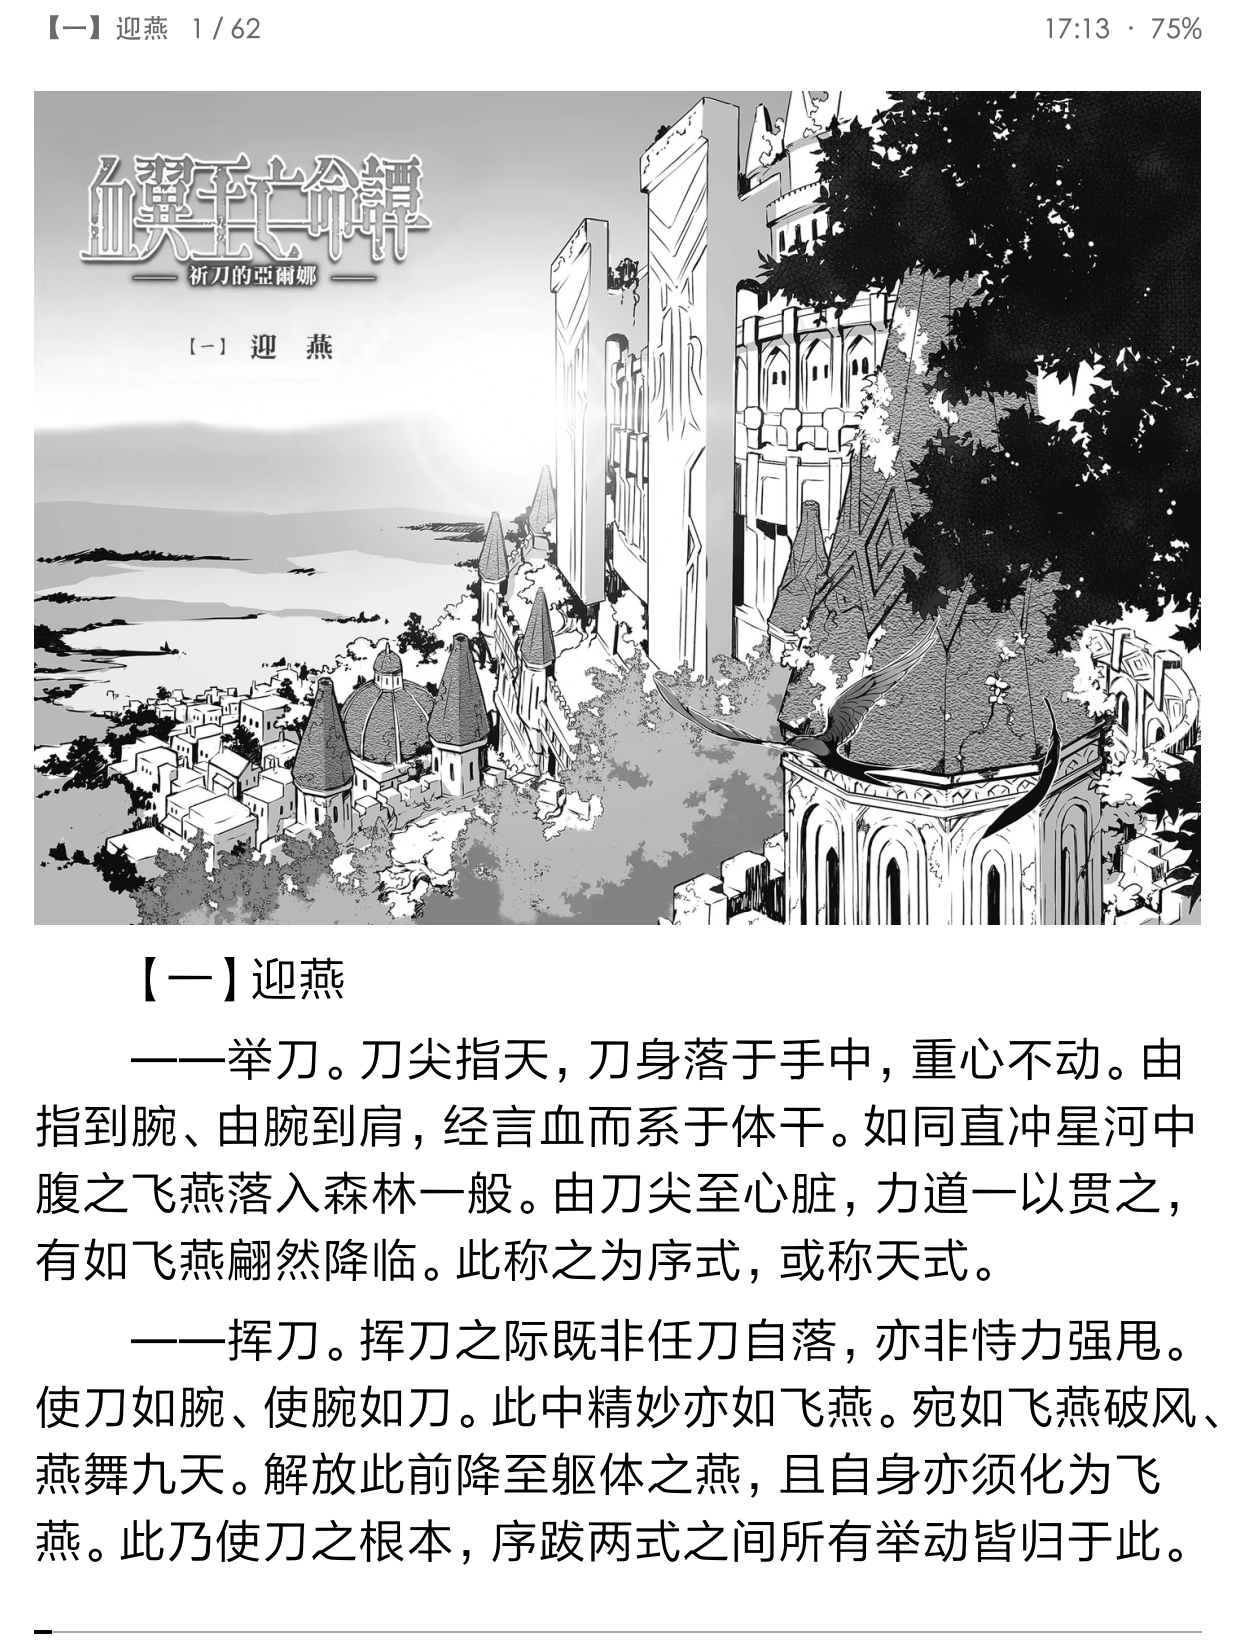
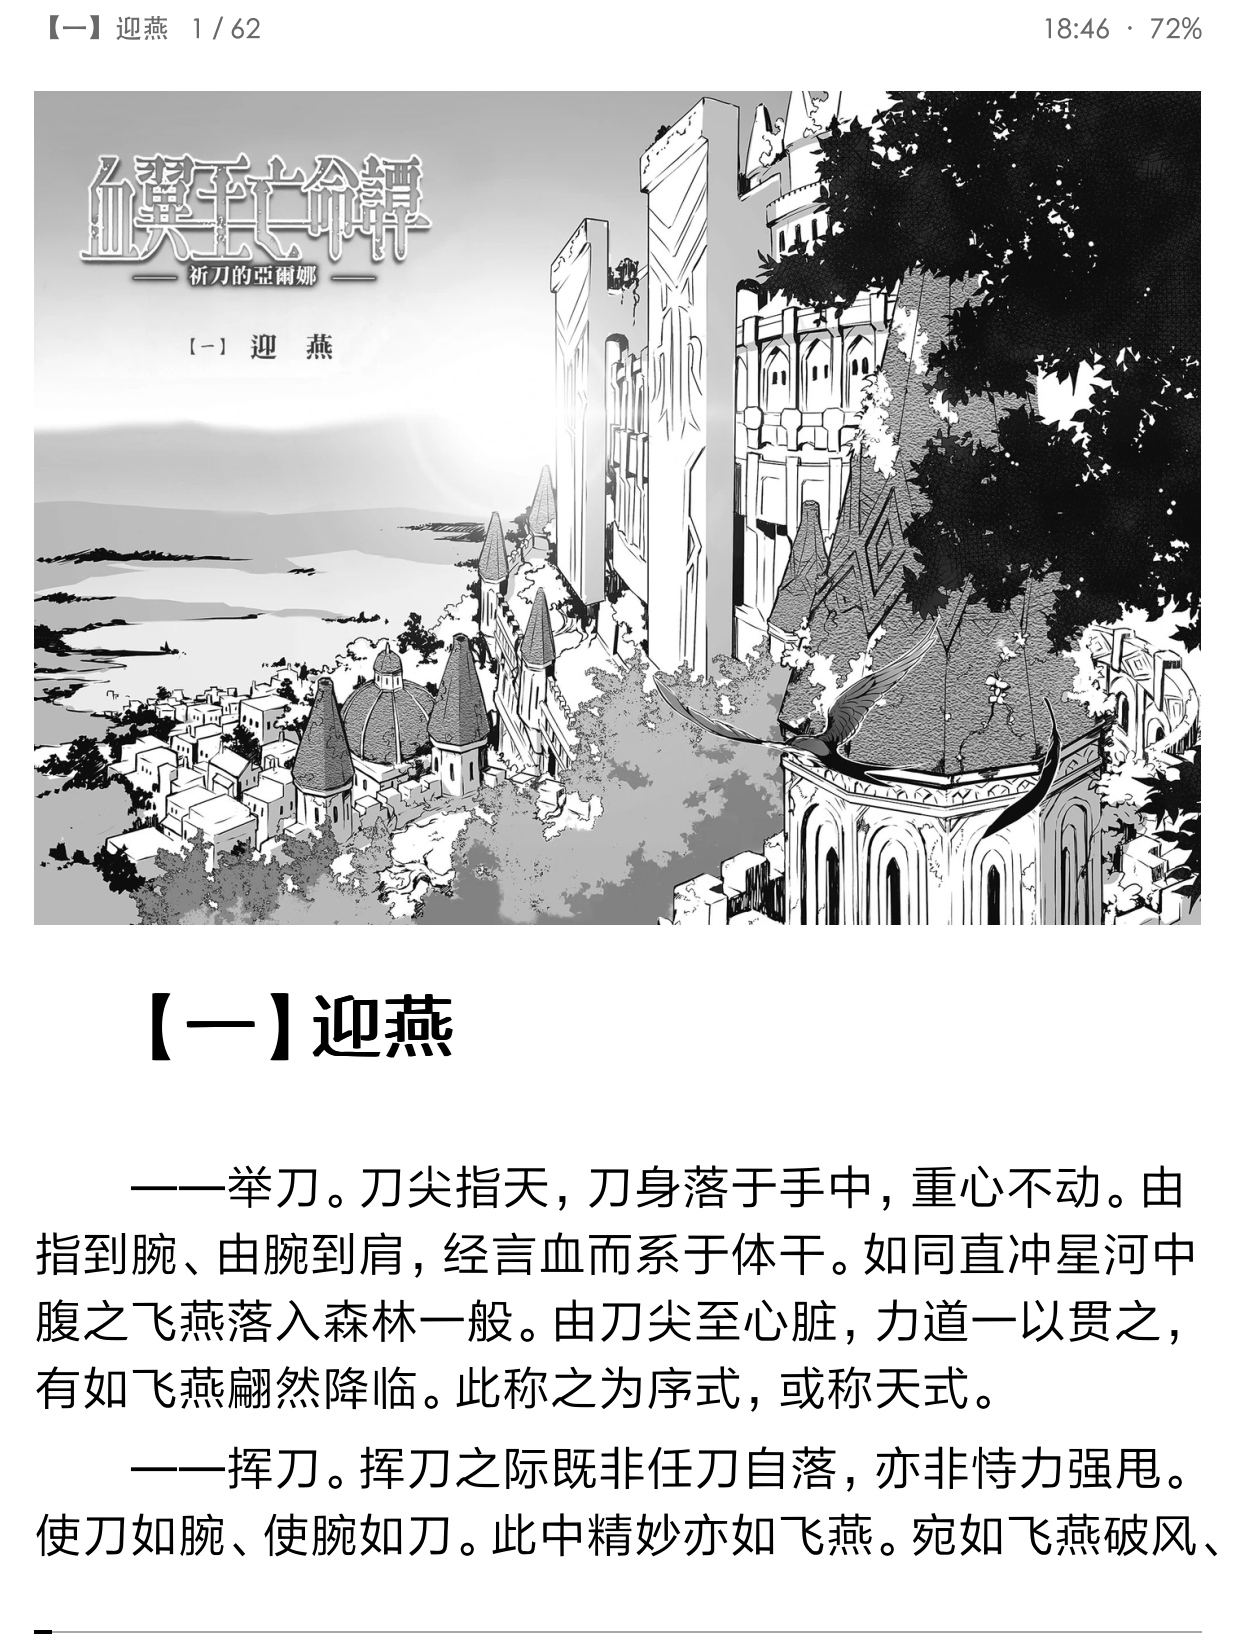
release: v1.4.1 —— 网页版样式排版、注释弹窗与正文相对地址

Changed region(s): [[0.0307, 0.557, 0.9838, 0.9593], [0.9223, 0.0, 0.9531, 0.0309], [0.8608, 0.0, 0.8916, 0.0309]]

diff --git a/docs/releases/v1.4.1.md b/docs/releases/v1.4.1.md
@@ -1,0 +1,17 @@
+## 新增
+
+- **正文按网页版的样式排版**：粗体、斜体、标题和各种字号、居中和靠右、引用块（左侧竖线、浅色文字）、分隔线、列表、上下标、注音（ruby）、着重号、删除线和下划线，都和网页版显示得一样。字号、行距、段间距、首行缩进仍然按你在设置里选的来。
+- **点击查看注释**：正文里的注释显示成一个小的「注」图标，点一下弹出注释内容，点任意处关闭。和网页版一样，注释不再列在章末。
+
+阅读位置的记录方式没有变，和之前的版本、网页版仍然通用。
+
+## 修复
+
+- **注释图标显示成「插图无法显示」**：小说正文里的注释标记原来被当成插图，会把段落从中间切开，还显示一个加载失败的框。
+- **正文里的部分图片加载失败**：章节里用相对地址的图片原来指向旧域名 `www.lightnovel.app`，在国内网络下连不上；现在改用网站现在的域名 `www.lightnovel.life`。
+
+在 Kindle Paperwhite 5 上测试过。
+
+## 安装
+
+下载 `KinNovel-v1.4.1.zip`，把其中 `KinNovel` 文件夹里的全部内容复制到 Kindle 的 `extensions/kinnovel/`，直接覆盖即可，配置、进度、书签和缓存都会保留。

diff --git a/README.md b/README.md
@@ -9,9 +9,10 @@
 [![许可](https://img.shields.io/github/license/mmnnwjw/KinNovel?label=%E8%AE%B8%E5%8F%AF)](LICENSE)
 ![平台](https://img.shields.io/badge/%E5%B9%B3%E5%8F%B0-Kindle%20%2B%20KUAL-informational)
 
-<img src="docs/images/shelf.png" width="31%" alt="书架：继续阅读卡片与云端书架">
-<img src="docs/images/reader-bookmark.png" width="31%" alt="阅读菜单：刚添加了书签">
-<img src="docs/images/reader-image.png" width="31%" alt="阅读器里插图与正文混排">
+<img src="docs/images/shelf.png" width="23%" alt="书架：继续阅读卡片与云端书架">
+<img src="docs/images/reader-note.png" width="23%" alt="正文按网页版样式排版：粗体，点「注」图标弹出注释">
+<img src="docs/images/reader-image.png" width="23%" alt="阅读器里插图与正文混排，章节标题加粗">
+<img src="docs/images/reader-bookmark.png" width="23%" alt="阅读菜单：刚添加了书签">
 
 </div>
 
